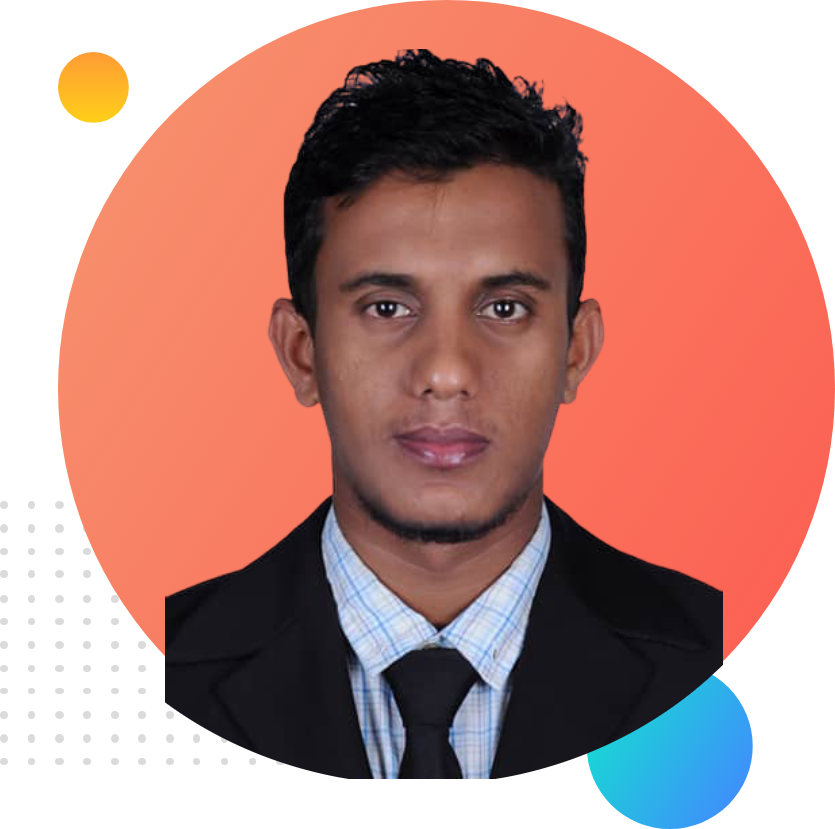
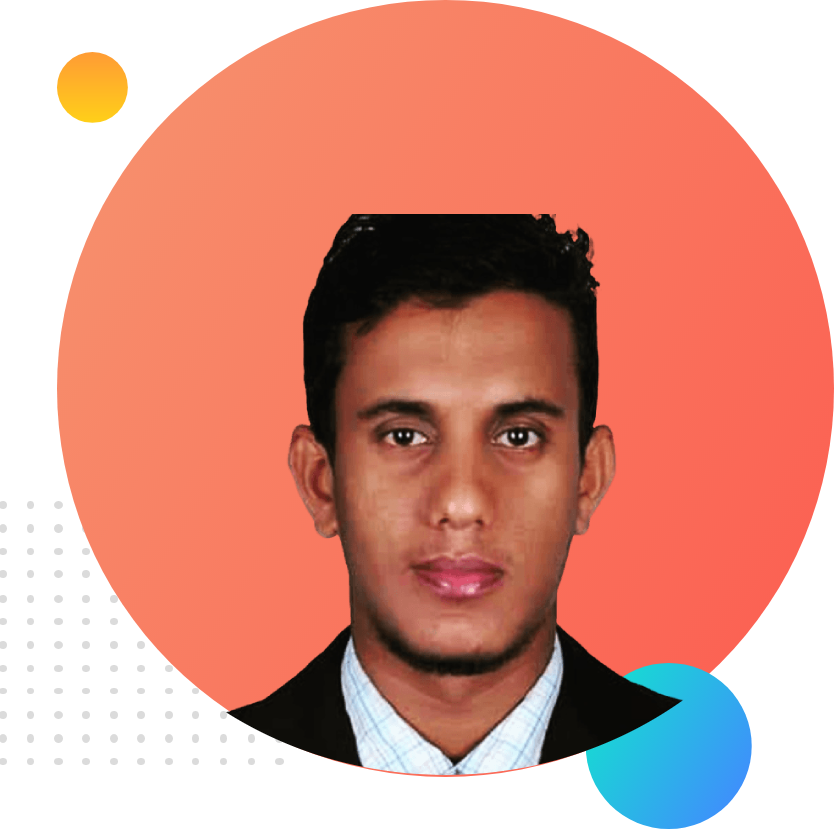
added new

diff --git a/index.html b/index.html
@@ -12,7 +12,7 @@
     <link rel="stylesheet" href="style.css">
 </head>
 <body>
-   <section class="top-banner">
+   <section class="top-banner flexible-container">
  <div class="half-width">
     <h1 id="orange-color2">Hello, I'm</h1>
     <h1> <span class="orange-color">Mazharul </span> <span class="orange-color1">Islam</span></h1>
@@ -21,27 +21,53 @@
      Student in Software Engineering with experience and extensive education in software design and application development. Fluent in English with excellent communication and interpersonal skills. A fast learner with strong time management and multi-tasking skills. Strong work ethic in team or individual settings to drive product success and process efficiency. Interested in an engineering intern position to assist technical service personnel in the proper execution of drawings while developing relevant skills.
     </b>
     </p>
-    <a class="link-button" href="https://www.linkedin.com/in/mazharul24434" target="_blank"> <b>HIRE ME</b> </a>
+    <a class="link-button" href="https://www.linkedin.com/in/mazharul24434" target="_blank"> HIRE ME</a>
  </div> 
  <div class="half-width">
     <img src="images/mazhar1.png" alt="Mazharul Islam">
  </div>
 </section>
 
-<section class="dream-big">
+<section class="dream-big flexible-container">
       <div class="half-width">
           <img src="images/mazhar2.png" alt="Mazharul Islam">
       </div>
       <div class="half-width">
           <h1>Dream Big</h1>
-          <h2>Become a Web Developer</h2>
-          <p>
+          <h2 class="orange-color"> Become a Web Developer</h2>
+          <p> <b>
               Currently i'm studying in sultan idris Eucation University majoring in software Engineering.This is my last semester academically and next semester i need to go for internship.I'm looking for internship now.i already applied in few companies and witing for their response.I'm skilled at web Developing and also i know few programming languages.
+            </b>
           </p>
-          <a class="link-button" href="https://www.linkedin.com/in/mazharul24434" target="_blank"> <b>DOWNLOAD RESUME</b>
+          <a class="link-button" href="https://drive.google.com/file/d/1KsCmAmVmfLoyzPYlpxxUIL0ZW6GX8u8u/view?usp=sharing" target="_blank"> <b>DOWNLOAD RESUME</b>
          </a>
       </div>
 </section>
 
+
+            <section class="experience-area">
+                      <h1 class="mh"> <b> EXPERIENCES </b></h1>
+                      <div class="flexible-container">
+                        <div id="full-stac" class="experience-item">
+                            <h1>Full Stack web Developer</h1>
+                            <h3 class="orange-color">2019-Present | Pro Level Developer </h3>
+                            <p> <b>
+                                I am the master of HTML, CSS and Javascript. I know everything needed to make a website function, efficient. I didn't stop with the web. I went beyond with most popular Javascript framework called Vue JS. I even know the deployment, server and security. I will give you 100% web solution.
+                            </b>
+                            </p>
+                      </div>
+                      <div id="web-dev-exp" class="experience-item">
+                              <h1>Baby Android  Developer</h1>
+                              <h3 class="orange-color">2021-Present | Programming Languages Learner</h3>
+                              <p> <b>
+                                In android development's world i'm still Baby.I've just started my journey in this vast field.I've already developed few applications using C++ and Java.I'm keep on learning new programming languages.Hope it will not take long time to be a perfect Android developer.
+                            </b>
+                              </p>
+                      </div>
+                      </div>
+            </section>
+            <footer>
+                <p> <b> © Mazzharul islam 2021, a Journey with Code.</b> </p>
+            </footer>
 </body>
 </html>

diff --git a/style.css b/style.css
@@ -9,17 +9,21 @@ body {
 }
 .orange-color {
   color: orangered;
+  font-size: larger;
 }
 .orange-color1 {
   color: tomato;
 }
-section {
+.flexible-container {
   display: flex;
   margin-bottom: 150px;
 }
 .half-width {
   width: 50%;
   padding: 10px;
+  box-shadow: ;
+  font-size: 20px;
+  font-family: Georgia, "Times New Roman", Times, serif;
 }
 .half-width img {
   width: 75%;
@@ -29,18 +33,52 @@ section {
   background-image: linear-gradient(orange, tomato);
   color: azure;
   font-weight: bold;
-
   padding: 10px 40px;
   border-radius: 5px;
+  border: 5px;
 }
 .top-banner {
   background-image: url(images/top-banner.png);
   background-repeat: no-repeat;
 }
-.dream-big{
-    background-image: url(images/dream-bg.png);
-    background-repeat: no-repeat;
-    background-position: right;
-  }
+.dream-big {
+  background-image: url(images/dream-bg.png);
+  background-repeat: no-repeat;
+  background-position: right;
+}
+.experience-area {
+  background-image: url(images/exp-bg.png);
+  background-repeat: no-repeat;
+  background-position: left;
+}
+.experience-item {
+  box-shadow: 10px 10px 30px gray;
+  width: 40%;
+  margin-left: 5%;
+  margin-right: 5%;
+  padding-left: 20px;
+  border-radius: 10px;
+  font-family: Georgia, "Times New Roman", Times, serif;
+  text-align: justify;
+}
+#web-dev-exp {
+  border-left: 7px solid;
+  border-image: linear-gradient(blue, cyan);
+  border-image-slice: 1;
+}
+#full-stac {
+  border-left: 7px solid;
+  border-image: linear-gradient(orangered, pink);
+  border-image-slice: 1;
+}
 
+.mh {
+  color: darkorange;
+  font-size: xx-large;
+}
+footer {
+  text-align: center;
+  color: coral;
+  text-shadow: darkorange;
+  font-size: larger;
 }
